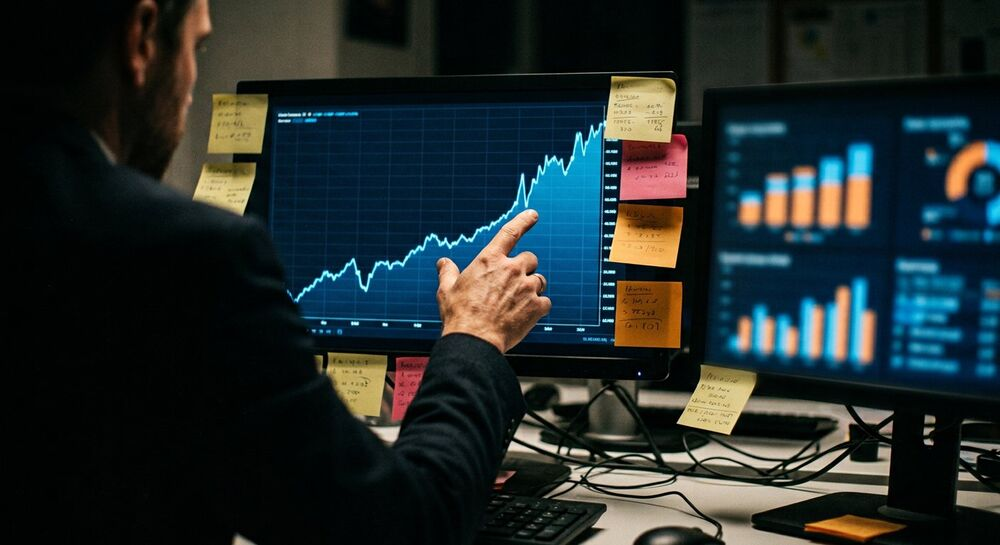
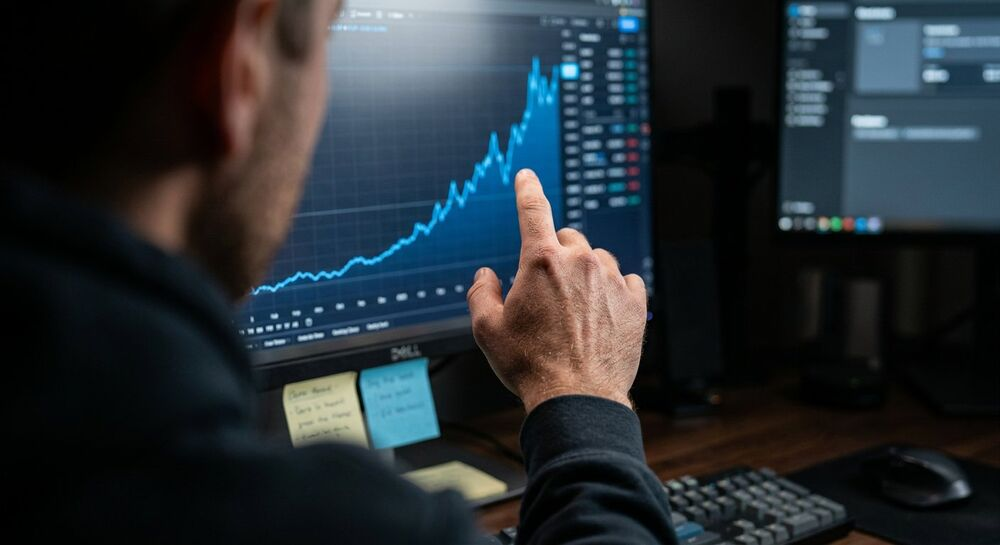
ofm: hero usa direccion-modelo-virtual como fondo oscurecido, fotos home y analitica hiperrealistas 4K

diff --git a/src/pages/ofm.js b/src/pages/ofm.js
@@ -51,9 +51,9 @@ export default {
     ).join('\n');
 
     return (
-      // HERO: badge GUÍA GRATUITA + titular + CTA + visual
+      // HERO: badge GUÍA GRATUITA + titular + CTA con fondo fotográfico
       `<section class="hero ofm-hero">` +
-      heroBg('analitica-escalar') +
+      heroBg('direccion-modelo-virtual') +
       `  <div class="container">` +
       breadcrumb([
         { href: '/', label: 'Inicio' },
@@ -66,15 +66,6 @@ export default {
       `      <div class="hero-actions">` +
       `        <a class="btn btn-primary btn-lg" href="#guias">Ver las guías gratis</a>` +
       `      </div>` +
-      `    </div>` +
-      `    <div class="ofm-hero-visual d2" data-reveal>` +
-      picture({
-        base: 'direccion-modelo-virtual',
-        alt: 'Dirección de arte de espaldas ante dos monitores con la hoja de personaje de un modelo virtual',
-        width: 1280,
-        height: 853,
-        lazy: false,
-      }) +
       `    </div>` +
       `  </div>` +
       `</section>` +
